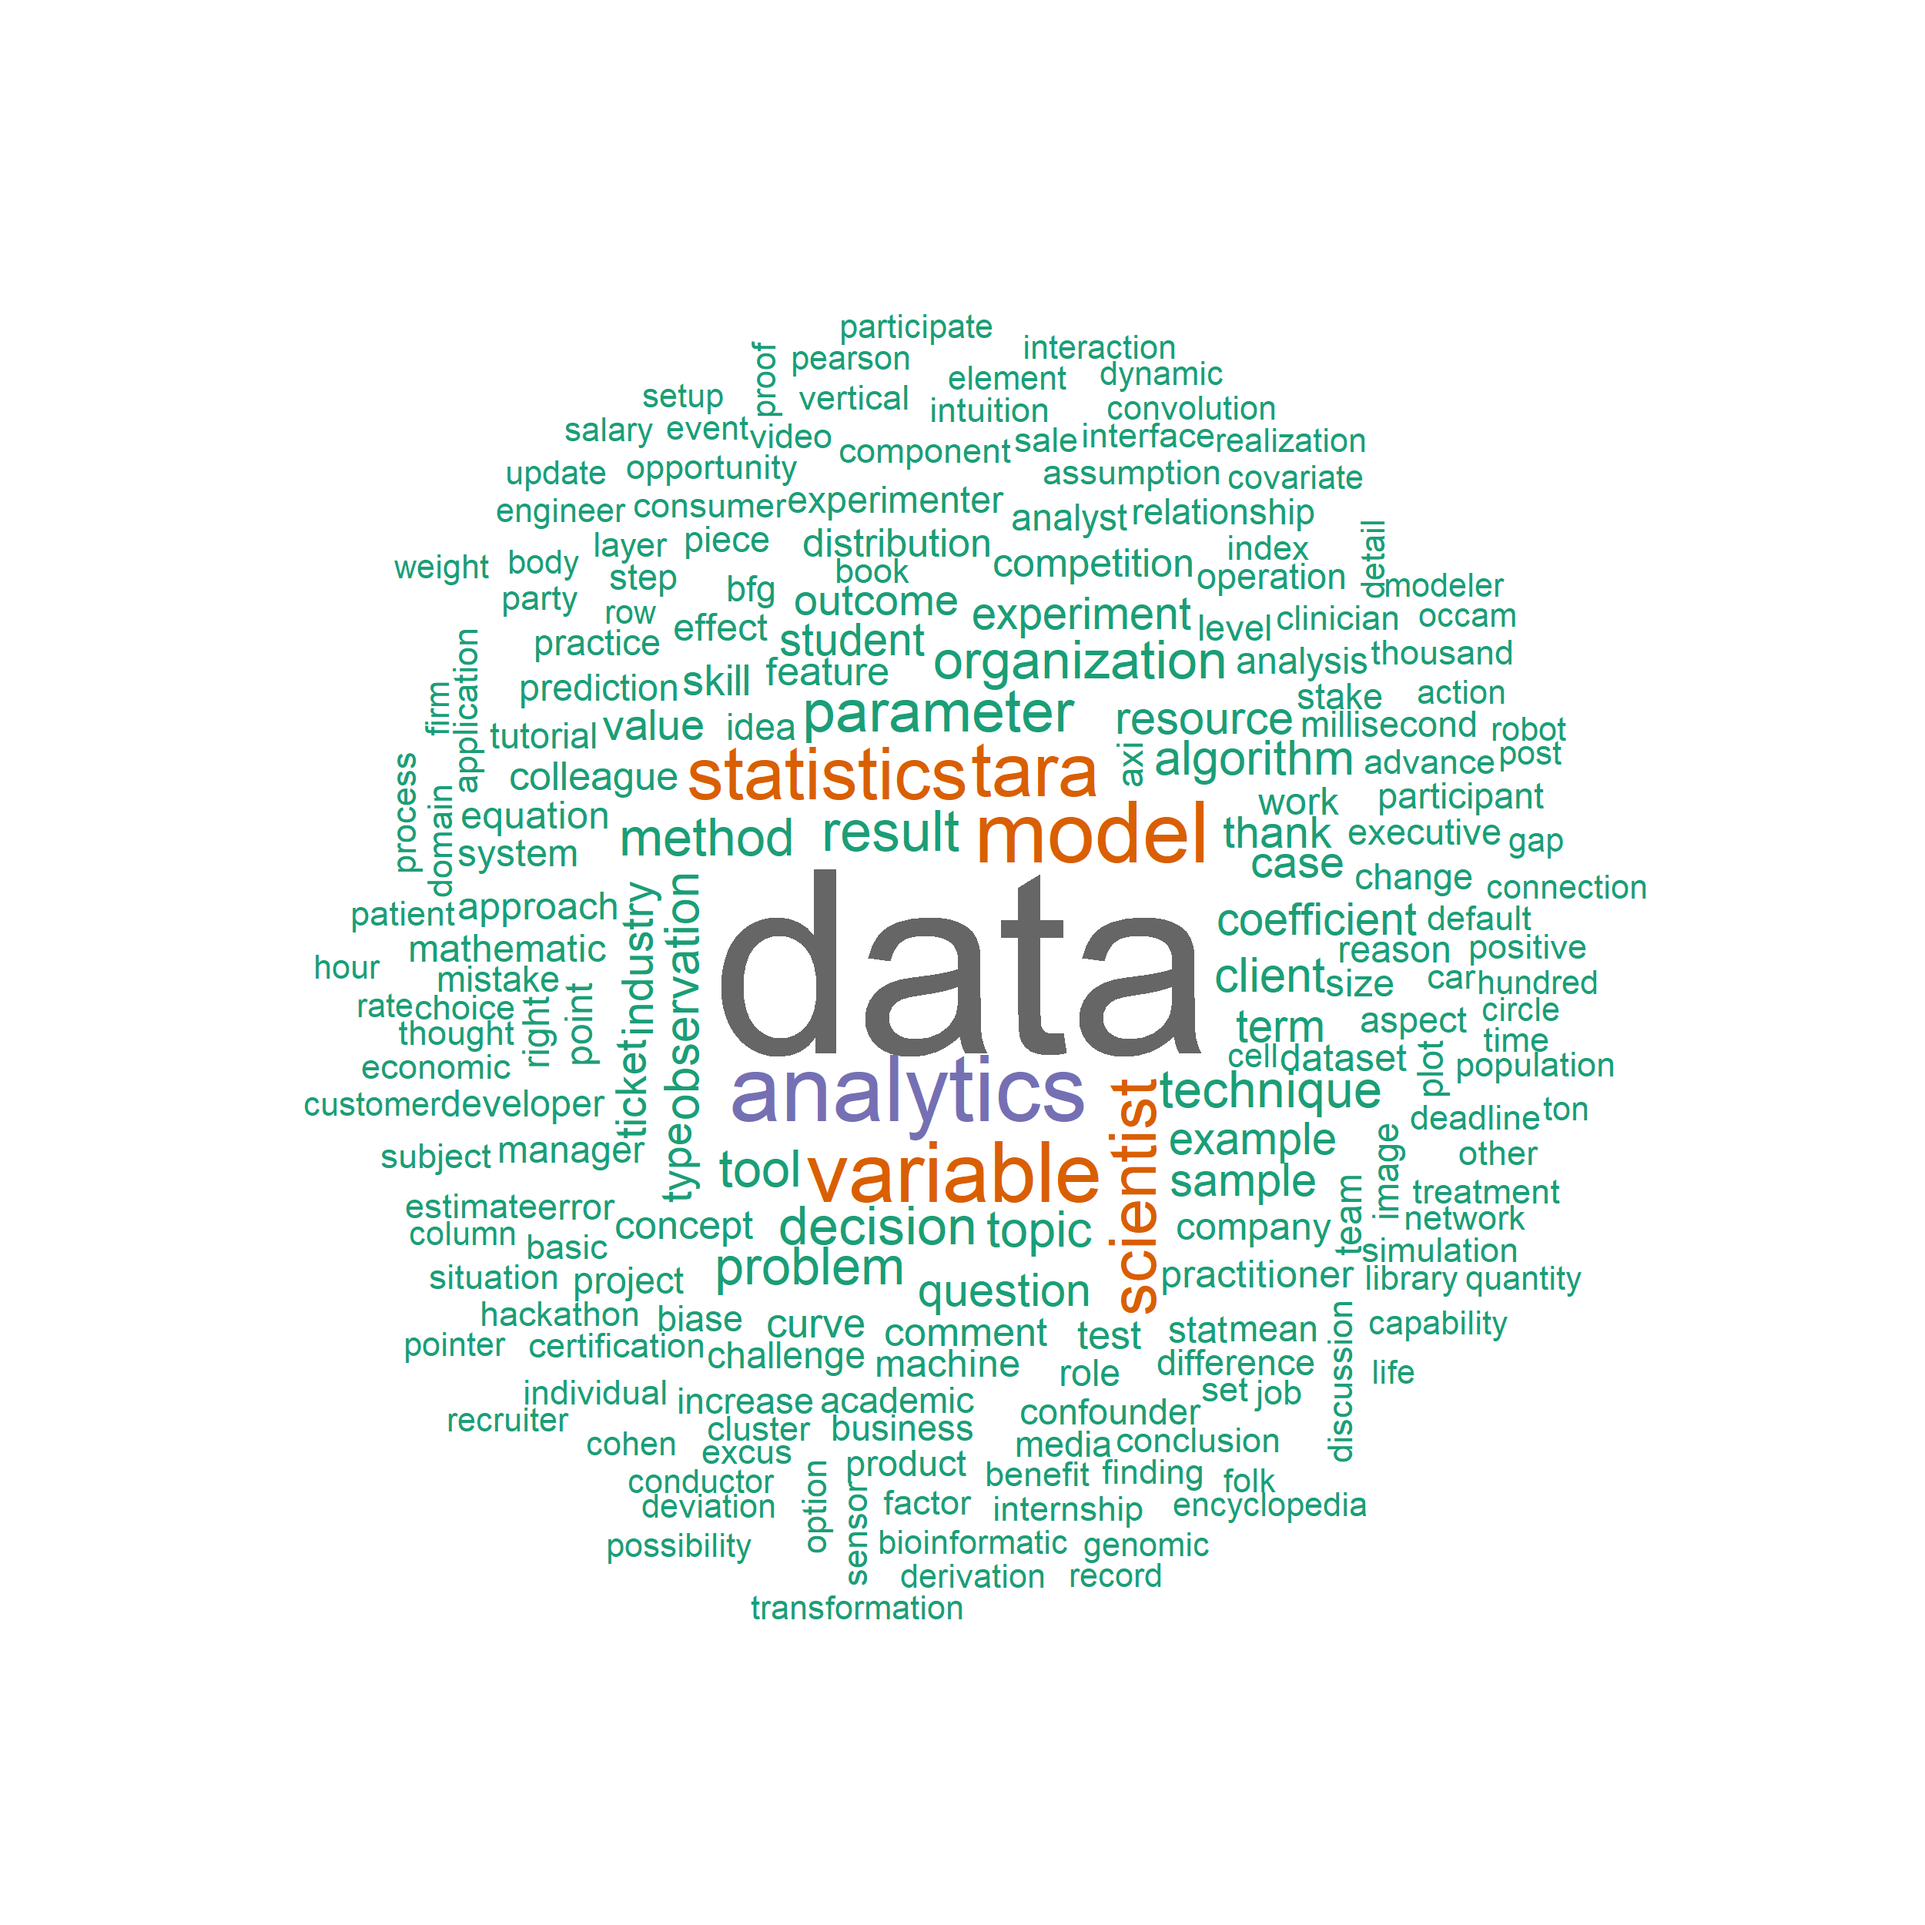
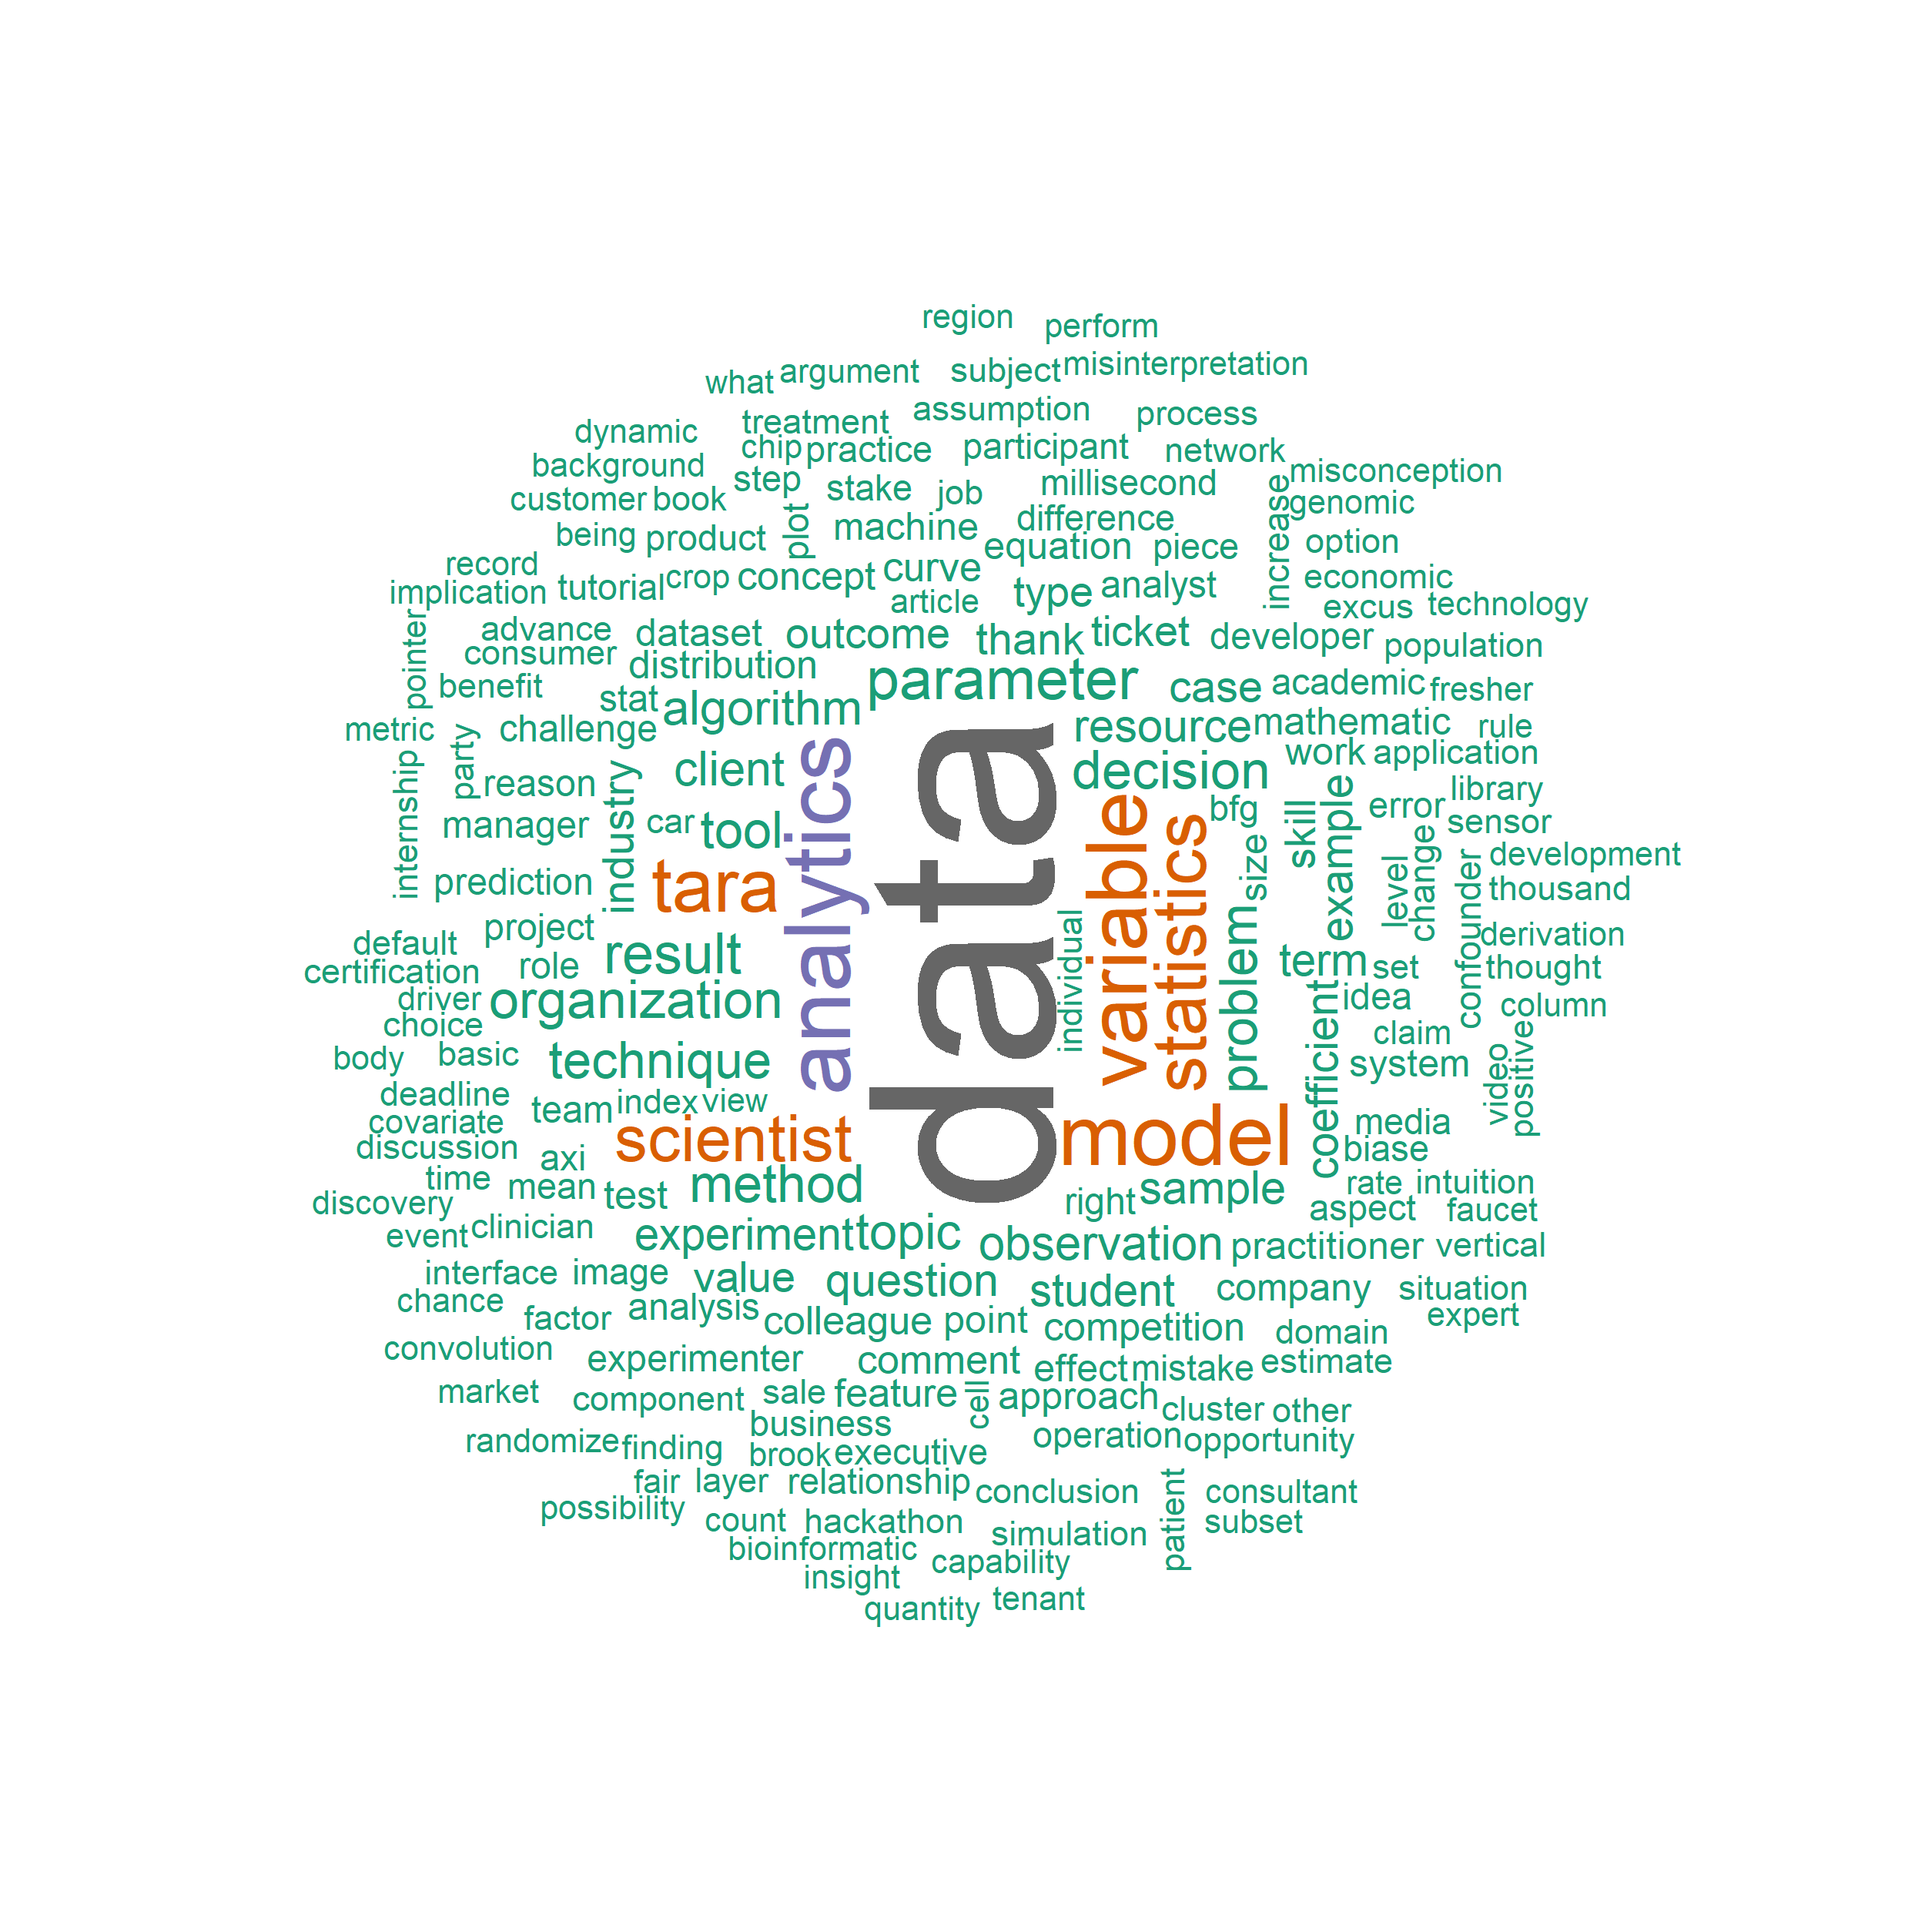
Hyunseo

Changed region(s): [[0.156, 0.156, 0.8736, 0.8424]]

diff --git a/_posts/2018/2018-07-17-newsletter.md b/_posts/2018/2018-07-17-newsletter.md
@@ -1,6 +1,6 @@
 ---
 layout: post
-title: 2018.07.17 Data Science Newsletter
+title: 2018.07.18 Data Science Newsletter
 category: weekly report
 tags: [Machine learning, Data Science article]
 no-post-nav: true
@@ -8,7 +8,7 @@ no-post-nav: true
 
 <br>
 
-### Data Science Newsletter ([wordcloud](https://raw.githubusercontent.com/2econsulting/2econsulting.github.io/master/data/newsletter/output/report/wordcloud_20180717.png))
+### Data Science Newsletter ([wordcloud](https://raw.githubusercontent.com/2econsulting/2econsulting.github.io/master/data/newsletter/output/report/wordcloud_20180718.png))
 
 
 <br>
@@ -16,43 +16,37 @@ no-post-nav: true
 #### Kaggle Blog NEWS TITLE
 
 * [Data Notes: How to Forecast the S&P 500 with Prophet](http://blog.kaggle.com/2018/07/12/data-notes-how-to-forecast-the-sp-500-with-prophet/)
-<br>Keyword(freq): link(10), data(6), dataset(5), kaggle(5), parties(4), celebfaces(2), datasets(2), extraterrestrials(2), kernels(2), markets(2)
+<br>Keyword(freq): link(10), dataset(7), datum(6), kaggle(5), party(4), car(2), celebface(2), extraterrestrial(2), kernel(2), market(2)
 
 <br>
 
 #### Data Camp NEWS TITLE
 
 * [Data Science at McKinsey (Transcript)](https://www.datacamp.com/community/blog/data-science-mckinsey)
-<br>Keyword(freq): data(197), taras(91), analytics(90), models(58), science(45), decisions(32), organizations(32), time(30), scientists(26), business(25)
-
-* [New Course: Machine Learning with Tree-Based Models in Python](https://www.datacamp.com/community/blog/course-machine-learning-with-tree-based-models-in-python)
-<br>Keyword(freq): trees(16), models(14), hyperparameters(6), methods(6), predictions(6), problems(6), data(4), learning(4), machine(4), model(4)
-
-* [New Course: Python for R Users](https://www.datacamp.com/community/blog/course-python-r-users)
-<br>Keyword(freq): python(12), pandas(8), functions(6), libraries(6), data(5), language(5), dataframes(4), arrays(2), background(2), booleans(2)
+<br>Keyword(freq): datum(197), analytic(91), tara(91), model(68), organization(45), science(45), decision(42), scientist(33), time(30), business(29)
 
 <br>
 
 #### Analytics Vidhya NEWS TITLE
 
 * [An Introductory Guide to Maximum Likelihood Estimation (with a case study in R)](https://www.analyticsvidhya.com/blog/2018/07/introductory-guide-maximum-likelihood-estimation-case-study-r/)
-<br>Keyword(freq): data(52), distribution(33), parameters(30), model(22), likelihood(21), coefficients(20), function(19), tickets(16), variables(14), distributions(12)
+<br>Keyword(freq): datum(46), distribution(39), parameter(34), model(25), likelihood(20), function(19), coefficient(18), ticket(16), log(13), problem(13)
 
 * [13 Common Mistakes Amateur Data Scientists Make and How to Avoid Them?](https://www.analyticsvidhya.com/blog/2018/07/13-common-mistakes-aspiring-fresher-data-scientists-make-how-to-avoid-them/)
-<br>Keyword(freq): data(105), scientists(26), science(24), scientist(15), tools(14), model(13), article(12), competitions(12), problem(12), techniques(12)
+<br>Keyword(freq): datum(105), scientist(41), science(24), model(23), problem(22), tool(21), article(16), competition(14), technique(14), resource(12)
 
 <br>
 
 #### Machine Learning Mastery NEWS TITLE
 
+* [The Role of Randomization to Address Confounding Variables in Machine Learning](https://machinelearningmastery.com/confounding-variables-in-machine-learning/)
+<br>Keyword(freq): variable(68), experiment(26), model(25), machine(23), learning(20), randomization(16), effect(15), confounding(13), datum(12), method(12)
+
 * [All of Statistics for Machine Learning](https://machinelearningmastery.com/all-of-statistics-for-machine-learning/)
-<br>Keyword(freq): statistics(54), book(27), topics(20), machine(13), data(11), chapters(10), examples(8), learning(8), methods(8), science(7)
+<br>Keyword(freq): statistic(54), book(27), topic(22), machine(15), method(13), datum(11), practitioner(10), example(8), learning(8), comment(7)
 
 * [A Gentle Introduction to Statistical Power and Power Analysis in Python](https://machinelearningmastery.com/statistical-power-and-power-analysis-in-python/)
-<br>Keyword(freq): power(54), size(26), test(25), effect(23), hypothesis(22), sample(22), samples(20), analysis(16), significance(15), curves(14)
+<br>Keyword(freq): power(54), sample(42), size(36), test(31), analysis(24), effect(23), hypothesis(22), result(19), curve(15), parameter(15)
 
-* [A Gentle Introduction to Effect Size Measures in Python](https://machinelearningmastery.com/effect-size-measures-in-python/)
-<br>Keyword(freq): effect(51), size(41), results(24), samples(24), methods(22), measures(18), variables(16), difference(12), pearsons(12), result(11)
-
-
+<br>
 
